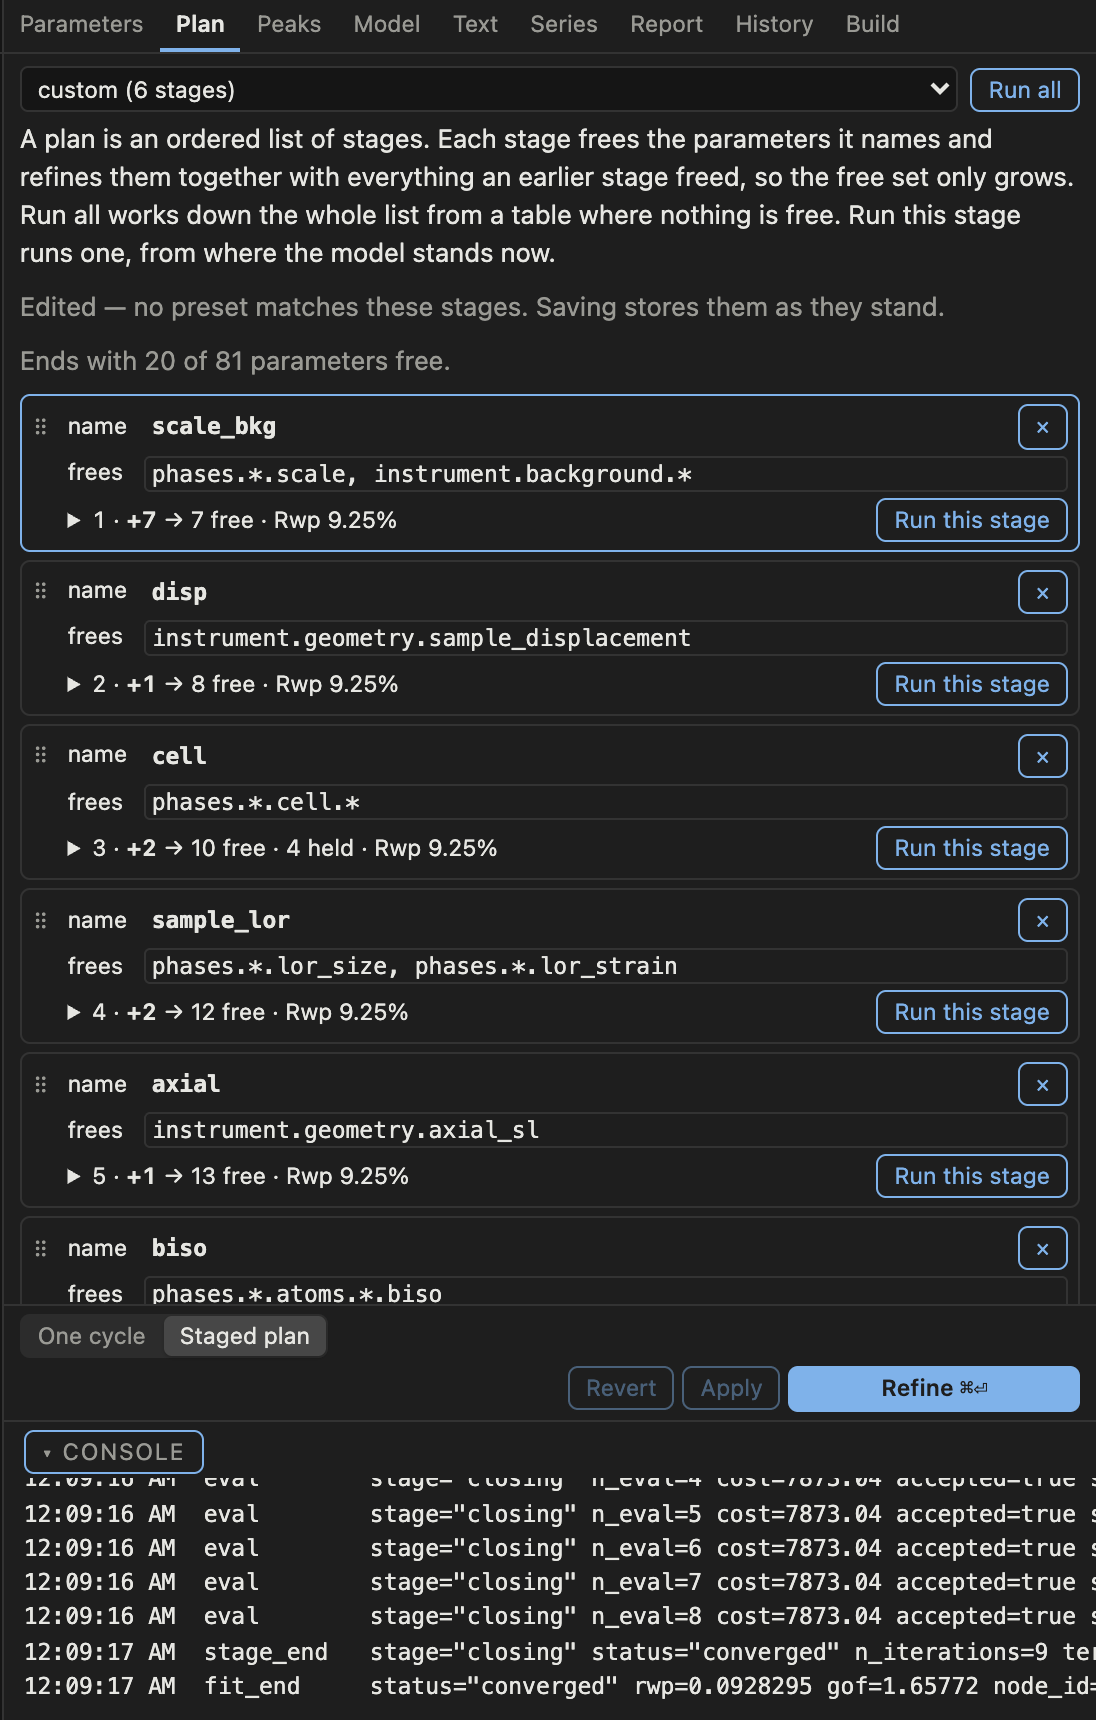
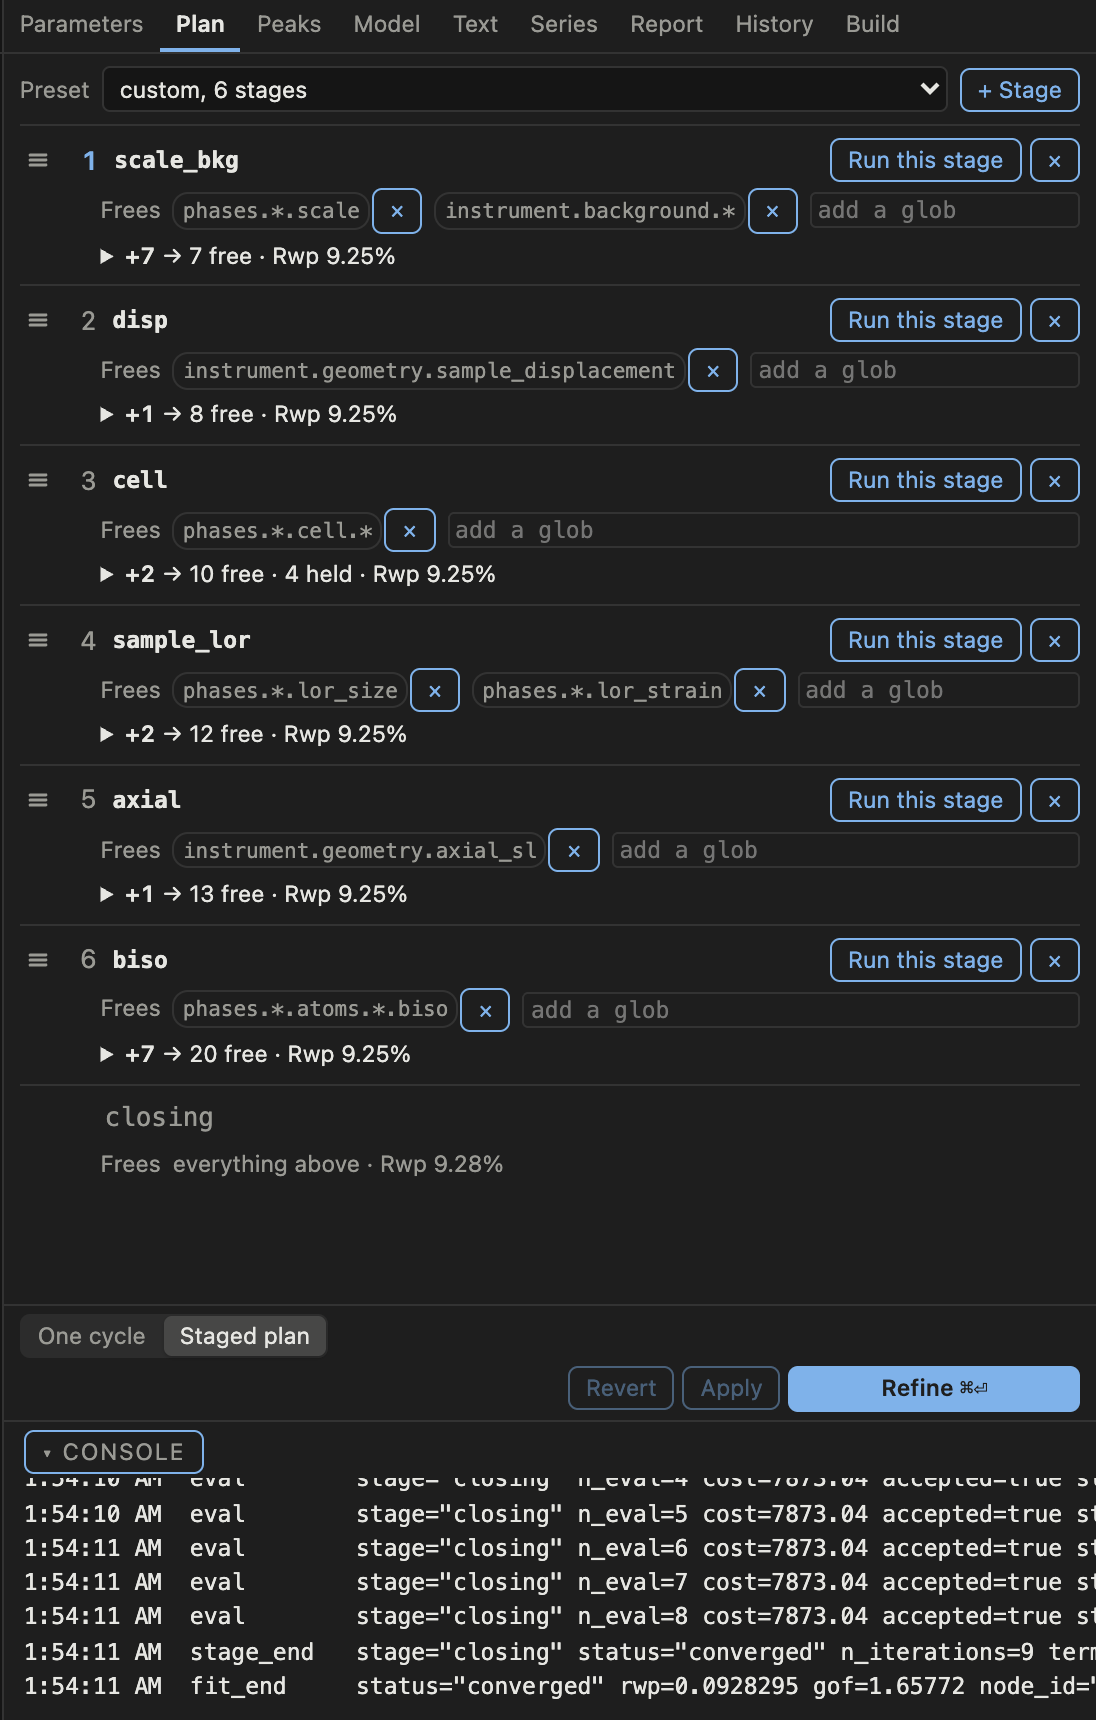
WP-2127: the manual's Plan section, its screenshots, and the rulebook
The Plan chapter describes the recipe rows, the action bar's one pending
plan edit and undo; Run all and the dirty-plan rule leave it. The two
plan screenshots are retaken. gui/CLAUDE.md's ladder rule and the
milestone's owed item follow: Run this stage now applies pending edits.

diff --git a/docs/docs/make_screenshots.py b/docs/docs/make_screenshots.py
@@ -141,7 +141,7 @@ SHOTS: tuple[Shot, ...] = (
     ),
     Shot(
         "plan-ladder",
-        "The plan as a ladder — per stage, what it frees and what stays held.",
+        "The plan as a recipe — one row per stage, what it frees and what stays held.",
         selector=".side",
         tab="Plan",
     ),

diff --git a/docs/docs/reference/gui-guide.md b/docs/docs/reference/gui-guide.md
@@ -55,8 +55,8 @@ One row under the panel column, on every tab.
 | Control | Does |
 |---|---|
 | `One cycle \| Staged plan` | what a refine runs: one stage on exactly the ticked parameters, or the project's plan |
-| the pending count | how many Parameters edits wait, and the first refusal if one is invalid |
-| `Revert` / `Apply` | drop or apply the pending Parameters edits |
+| the pending count | how many Parameters edits wait, plus one for an edited plan, and the first refusal if one is invalid |
+| `Revert` / `Apply` | drop or apply the pending edits: the Parameters edits first, then the plan |
 | `Refine` | run the choice; it reads `Apply and refine` while edits wait, and applies them first |
 
 `⌘⏎` (`Ctrl+Enter` off a Mac) presses `Refine`, except inside the Text
@@ -215,25 +215,43 @@ It frees every stage's globs once more, on peak windows that drop 0.10% of
 each peak, and its Rwp is the answer's. The plan's `closing` line in the text
 document sets the fraction, and `none` removes the stage.
 
-The two buttons do different things:
+The plan reads top to bottom, one stage to a row. Each row holds:
 
-- `Run all` runs the plan from the start. A plan replaces the vary flags rather
-  than continuing them, so a row you freed by hand that no stage names is
-  dropped.
-- `Run this stage` runs one stage from where you are, and keeps what you freed
-  by hand.
+- a three-line handle. Drag it to move the stage, or focus it and press the up
+  and down arrow keys.
+- the stage's name, which you can type over.
+- `Run this stage`, which runs that one stage from where you are and keeps what
+  you freed by hand. It applies the pending edits first, as `Refine` does.
+- `×`, which removes the stage. The last stage has none.
+- the globs the stage frees, each with a `×` beside it, and a field where you
+  type another glob and press Enter.
+- the stage's line of the ladder: how many parameters it frees on top of the
+  stages above, the running count of free ones, how many stay held, and the
+  stage's Rwp from the last run. Open it for the paths.
 
-A plan you have edited and not saved has no resolved facts and cannot be run,
-because the ladder describes the plan the server is holding.
+The `Preset` menu replaces the stages with a preset's. `+ Stage` adds an empty
+stage at the end and puts the cursor in its name.
+
+An edit to the plan waits in the action bar as one pending edit. `Apply` stores
+it, `Revert` drops it, and `Refine` stores it before running. To run the whole
+plan, choose `Staged plan` in the action bar and press `Refine`. A plan
+replaces the vary flags rather than continuing them, so a row you freed by hand
+that no stage names is dropped. The panel lists those rows under the closing
+stage.
+
+The ladder describes the plan the server holds. After an edit, the stages
+above the first change keep their lines, and every stage from that change down
+reads `not applied` until you apply. `⌘Z` and `⇧⌘Z` undo and redo plan edits,
+the preset menu included, while the cursor is outside a text field.
 
 ```{image} ../screenshots/plan-ladder-light.png
 :class: only-light
-:alt: The plan panel: an ordered list of stages, each showing the globs it frees and the parameter paths they reach, with a running count of free parameters
+:alt: The plan panel: a preset menu, then one row per stage with a drag handle, its name, the globs it frees and a line counting the parameters it frees and holds
 ```
 
 ```{image} ../screenshots/plan-ladder-dark.png
 :class: only-dark
-:alt: The plan panel: an ordered list of stages, each showing the globs it frees and the parameter paths they reach, with a running count of free parameters
+:alt: The plan panel: a preset menu, then one row per stage with a drag handle, its name, the globs it frees and a line counting the parameters it frees and holds
 ```
 
 ## Peaks

diff --git a/gui/CLAUDE.md b/gui/CLAUDE.md
@@ -771,16 +771,15 @@ intensity mode's force-fix are the shipped ones; `lib/fnmatch.ts` stays the
 *parameter table's* bulk-edit preview and matches nothing here. **A plan
 replaces the vary flags, it does not continue them**: `fit` starts from
 `_prepare_table(restore=False)`, which holds everything, so a hand-freed row no
-stage names is dropped by `Run all` and kept by `Run this stage` (measured both
-ways) — `set_aside` is that difference named, and it is why the two buttons are
-on screen together. **A stage's Rwp is its history node's**, never a
+stage names is dropped by a staged Refine and kept by `Run this stage` (measured
+both ways) — `set_aside` is that difference named. **A stage's Rwp is its history node's**, never a
 `fit(stage_reports=True)` trajectory: bit-identical, both read off the model the
 stage compiled and the θ it landed on, and the trajectory costs 7.7× the fit to
 rebuild, so the run verb is untouched — the **last** run's node is matched to a
 rung by position **and** by that stage's name and `turn_on`, anything else
-leaving the number absent rather than a neighbour's or an older run's. And a **dirty plan
-has no resolved facts and cannot be run**, because the ladder describes the plan
-the server holds. Beside them, the advanced boxes loop over `lib/rxt.ts`'s stage
+leaving the number absent rather than a neighbour's or an older run's. An **edited plan keeps the facts of the
+stages above its first change only** (WP-2127, `lib/plan.ts:resolvedPrefix`),
+and is **one pending edit in the shell's action bar**, never a Save of its own. Beside them, the advanced boxes loop over `lib/rxt.ts`'s stage
 words — pinned to `StageSpec` from python with the two properties a box needs —
 so a new schema field reaches this form as well as the `.rxt` document.
 

diff --git a/docs/milestones/gui-overhaul.md b/docs/milestones/gui-overhaul.md
@@ -74,8 +74,9 @@ the piece that touches it or a WP of its own.
 - The Model and Text panels keep their own Apply beside the action bar's, outlined so the bar's
   Refine stays the one filled button, because WP-2123 routes only the Parameters edits through
   the action bar. Their edits still wait on two Apply buttons in one view.
-- A run started from the Plan, Report or Series panel, or by the `.` key, does not apply the
-  Parameters edits waiting in the action bar; the bar's Refine and the `r` key do (WP-2123).
+- A run started from the Report or Series panel, or by the `.` key, does not apply the
+  Parameters edits waiting in the action bar. The bar's Refine, the `r` key (WP-2123) and the
+  Plan panel's `Run this stage` (WP-2127) do.
 
 ## Acceptance
 

diff --git a/docs/wp/2127-the-plan-tab.md b/docs/wp/2127-the-plan-tab.md
@@ -172,7 +172,7 @@ reversible", with its alternative, and waits for the maintainer's review of the 
   `Run all` retired from the tab.
 - [x] Undo and redo of plan edits: ⌘Z and ⇧⌘Z in the tab outside a text field, and the palette.
 - [x] The layout browser test extended to the Plan tab: every control clicked, a real drag.
-- [ ] The dist rebuilt; the GUI chapters and the screenshots the tab changes.
+- [x] The dist rebuilt; the GUI chapters and the screenshots the tab changes.
 - [ ] Skill: none expected. The agent skill drives the python API, and no route changes.
 
 ## Acceptance
